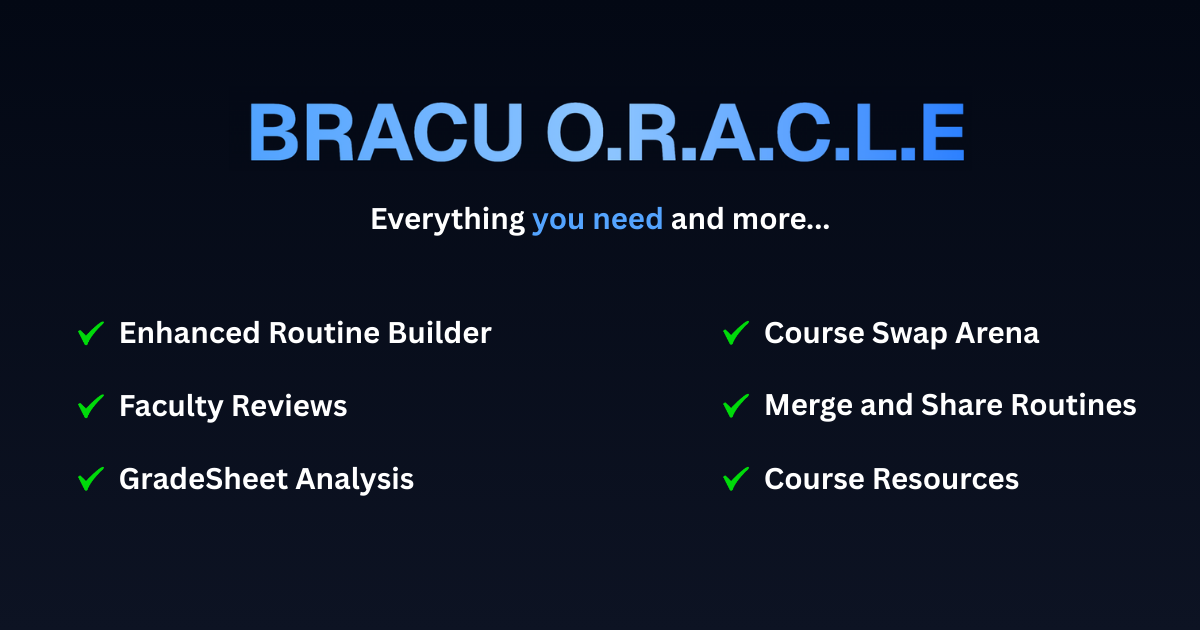
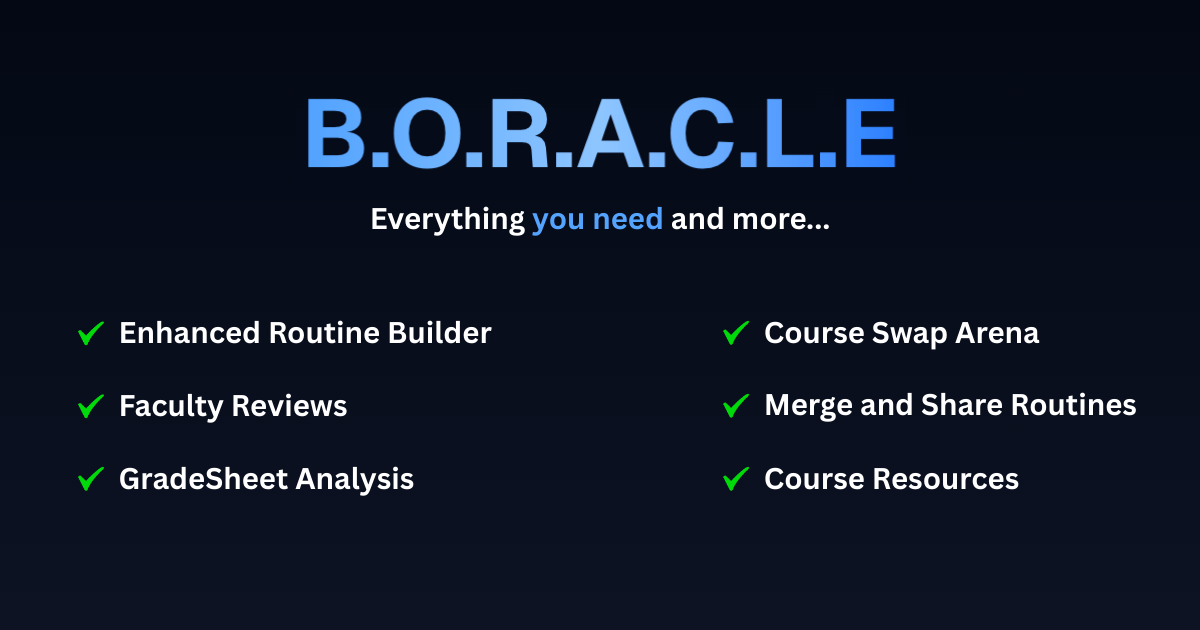
fix: branding.

Changed region(s): [[0.185, 0.1508, 0.8017, 0.2714]]

diff --git a/src/components/dashboard/app-sidebar.jsx b/src/components/dashboard/app-sidebar.jsx
@@ -1,8 +1,8 @@
 "use client"
 
-import { Home,Sigma,Star,ChevronsLeftRightEllipsis,Calendar, Settings, LogOut, BookOpen, Users } from "lucide-react"
+import { Home, Sigma, Star, ChevronsLeftRightEllipsis, Calendar, Settings, LogOut, BookOpen, Users } from "lucide-react"
 import { useSession, signOut } from "next-auth/react"
- 
+
 import {
   Sidebar,
   SidebarContent,
@@ -23,7 +23,7 @@ export function AppSidebar() {
   const { data: session, status } = useSession()
 
   console.log("Session data in Sidebar:", session)
-  
+
   // Get user role from session - handle both 'role' and 'userrole' properties
   const userRole = session?.user?.userrole?.toLowerCase()
   const isAdmin = userRole === 'admin'
@@ -34,22 +34,22 @@ export function AppSidebar() {
   // Filter admin items based on user role - only if session is loaded
   const getFilteredAdminGroups = () => {
     if (status === "loading" || !hasAdminAccess) return []
-    
+
     return sidebarAdminGroups.map(group => ({
       ...group,
       items: group.items.filter(item => {
         if (!item.enabled) return false
-        
+
         // If forAdminOnly is true, only show to admins
         if (item.forAdminOnly === true) {
           return isAdmin
         }
-        
+
         // If forAdminOnly is false, show to both admins and moderators
         if (item.forAdminOnly === false) {
           return hasAdminAccess
         }
-        
+
         // Default: show to admins only
         return isAdmin
       })
@@ -64,10 +64,10 @@ export function AppSidebar() {
       <SidebarHeader className="p-4 border-b border-gray-200 dark:border-gray-800 group-data-[collapsible=icon]:px-3">
         <a href="/" className="flex items-center gap-3 group-data-[collapsible=icon]:justify-center hover:opacity-80 transition-opacity">
           <div className="w-8 h-8 bg-gradient-to-br from-blue-500 to-blue-600 rounded-lg flex items-center justify-center shrink-0">
-            <span className="text-white font-bold text-sm">O</span>
+            <span className="text-white font-bold text-sm">B</span>
           </div>
           <div className="group-data-[collapsible=icon]:hidden">
-            <h2 className="font-semibold text-gray-900 dark:text-white text-sm">O.R.A.C.L.E</h2>
+            <h2 className="font-semibold text-gray-900 dark:text-white text-sm">B.O.R.A.C.L.E</h2>
             <p className="text-xs text-gray-500 dark:text-gray-400">Student Portal</p>
           </div>
         </a>
@@ -83,8 +83,8 @@ export function AppSidebar() {
               <SidebarMenu className="space-y-1">
                 {group.items.filter(item => item.enabled !== false).map((item, index) => (
                   <SidebarMenuItem key={index}>
-                    <SidebarMenuButton 
-                      asChild 
+                    <SidebarMenuButton
+                      asChild
                       className="w-full hover:bg-blue-50 hover:text-blue-700 dark:hover:bg-blue-950/50 dark:hover:text-blue-300 rounded-lg px-3 py-2.5 transition-all duration-200 group data-[active=true]:bg-blue-600 data-[active=true]:text-white dark:data-[active=true]:bg-blue-600 group-data-[collapsible=icon]:justify-center group-data-[collapsible=icon]:px-0"
                       tooltip={item.title}
                     >
@@ -99,7 +99,7 @@ export function AppSidebar() {
             </SidebarGroupContent>
           </SidebarGroup>
         ))}
-        
+
       </SidebarContent>
 
       <SidebarFooter className="p-4 border-t border-gray-200 dark:border-gray-800 bg-gray-50 dark:bg-gray-900 group-data-[collapsible=icon]:px-2">
@@ -108,9 +108,9 @@ export function AppSidebar() {
             {/* User Profile */}
             <div className="flex items-center gap-3 px-2 group-data-[collapsible=icon]:justify-center group-data-[collapsible=icon]:px-0">
               {session.user.image ? (
-                <img 
-                  src={session.user.image} 
-                  alt={session.user.name || 'User'} 
+                <img
+                  src={session.user.image}
+                  alt={session.user.name || 'User'}
                   className="w-8 h-8 rounded-full object-cover shrink-0"
                   onError={(e) => {
                     e.target.style.display = 'none';
@@ -118,7 +118,7 @@ export function AppSidebar() {
                   }}
                 />
               ) : null}
-              <div 
+              <div
                 className="w-8 h-8 bg-gradient-to-br from-blue-500 to-purple-600 rounded-full items-center justify-center shrink-0"
                 style={{ display: session.user.image ? 'none' : 'flex' }}
               >
@@ -135,9 +135,9 @@ export function AppSidebar() {
                 </p>
               </div>
             </div>
-            
+
             {/* Logout Button */}
-            <SidebarMenuButton 
+            <SidebarMenuButton
               onClick={() => signOut({ callbackUrl: '/' })}
               className="w-full hover:bg-red-50 hover:text-red-700 dark:hover:bg-red-950/50 dark:hover:text-red-300 rounded-lg px-3 py-2.5 transition-all duration-200 cursor-pointer group-data-[collapsible=icon]:justify-center group-data-[collapsible=icon]:px-0"
               tooltip="Sign Out"

diff --git a/src/components/navbar/navigation-bar.jsx b/src/components/navbar/navigation-bar.jsx
@@ -38,8 +38,8 @@ export default function NavigationBar() {
 
   return (
     <header className={`sticky top-0 z-50 transition-all duration-300 ${scrolled
-        ? 'bg-white/95 dark:bg-gray-900/95 backdrop-blur-md shadow-md'
-        : 'bg-white dark:bg-gray-900'
+      ? 'bg-white/95 dark:bg-gray-900/95 backdrop-blur-md shadow-md'
+      : 'bg-white dark:bg-gray-900'
       }`}>
       <div className="container mx-auto px-4">
         <div className="flex items-center justify-between h-16 relative">
@@ -96,11 +96,11 @@ export default function NavigationBar() {
 
             {/* Logo */}
             <Link href="/" className="flex items-center gap-2 group">
-              <div className="w-8 h-8 bg-gradient-to-br from-blue-500 to-blue-600 rounded-lg flex items-center justify-center shadow-sm group-hover:shadow-md transition-shadow">
-                <span className="text-white font-bold text-sm">O</span>
-              </div>
+              {/* <div className="w-8 h-8 bg-gradient-to-br from-blue-500 to-blue-600 rounded-lg flex items-center justify-center shadow-sm group-hover:shadow-md transition-shadow">
+                <span className="text-white font-bold text-sm">B</span>
+              </div> */}
               <span className="font-bold text-lg text-gray-900 dark:text-white hidden sm:block">
-                O.R.A.C.L.E
+                B.O.R.A.C.L.E
               </span>
             </Link>
           </div>

diff --git a/src/app/(main)/page.jsx b/src/app/(main)/page.jsx
@@ -15,13 +15,13 @@ export default function Home() {
             <span className="text-sm font-medium text-blue-700 dark:text-blue-300">Live & Running</span>
           </div>
           <h1 className="text-4xl sm:text-5xl font-bold bg-gradient-to-r from-blue-600 via-blue-500 to-blue-700 dark:from-blue-400 dark:via-blue-300 dark:to-blue-500 bg-clip-text text-transparent">
-            BRACU O.R.A.C.L.E
+            B.O.R.A.C.L.E
           </h1>
           <p className="text-lg sm:text-xl text-gray-600 dark:text-gray-400">
             Euphoria for BRACU Students
           </p>
         </div>
-        
+
         <SignInOrDashboard />
         <FeatureCards />
         <Counts />

diff --git a/src/components/savedRoutine/ShareModal.jsx b/src/components/savedRoutine/ShareModal.jsx
@@ -7,7 +7,7 @@ import { copyToClipboard } from '@/lib/utils';
 const ShareModal = ({ routineId, type = 'routine', onClose }) => {
     const [linkCopied, setLinkCopied] = useState(false);
     const shareUrl = `${typeof window !== 'undefined' ? window.location.origin : ''}/${type}/${routineId}`;
-    const shareText = `Check out my routine on BRACU O.R.A.C.L.E!`;
+    const shareText = `Check out my routine on B.O.R.A.C.L.E!`;
 
     const copyLink = async () => {
         const success = await copyToClipboard(shareUrl);
